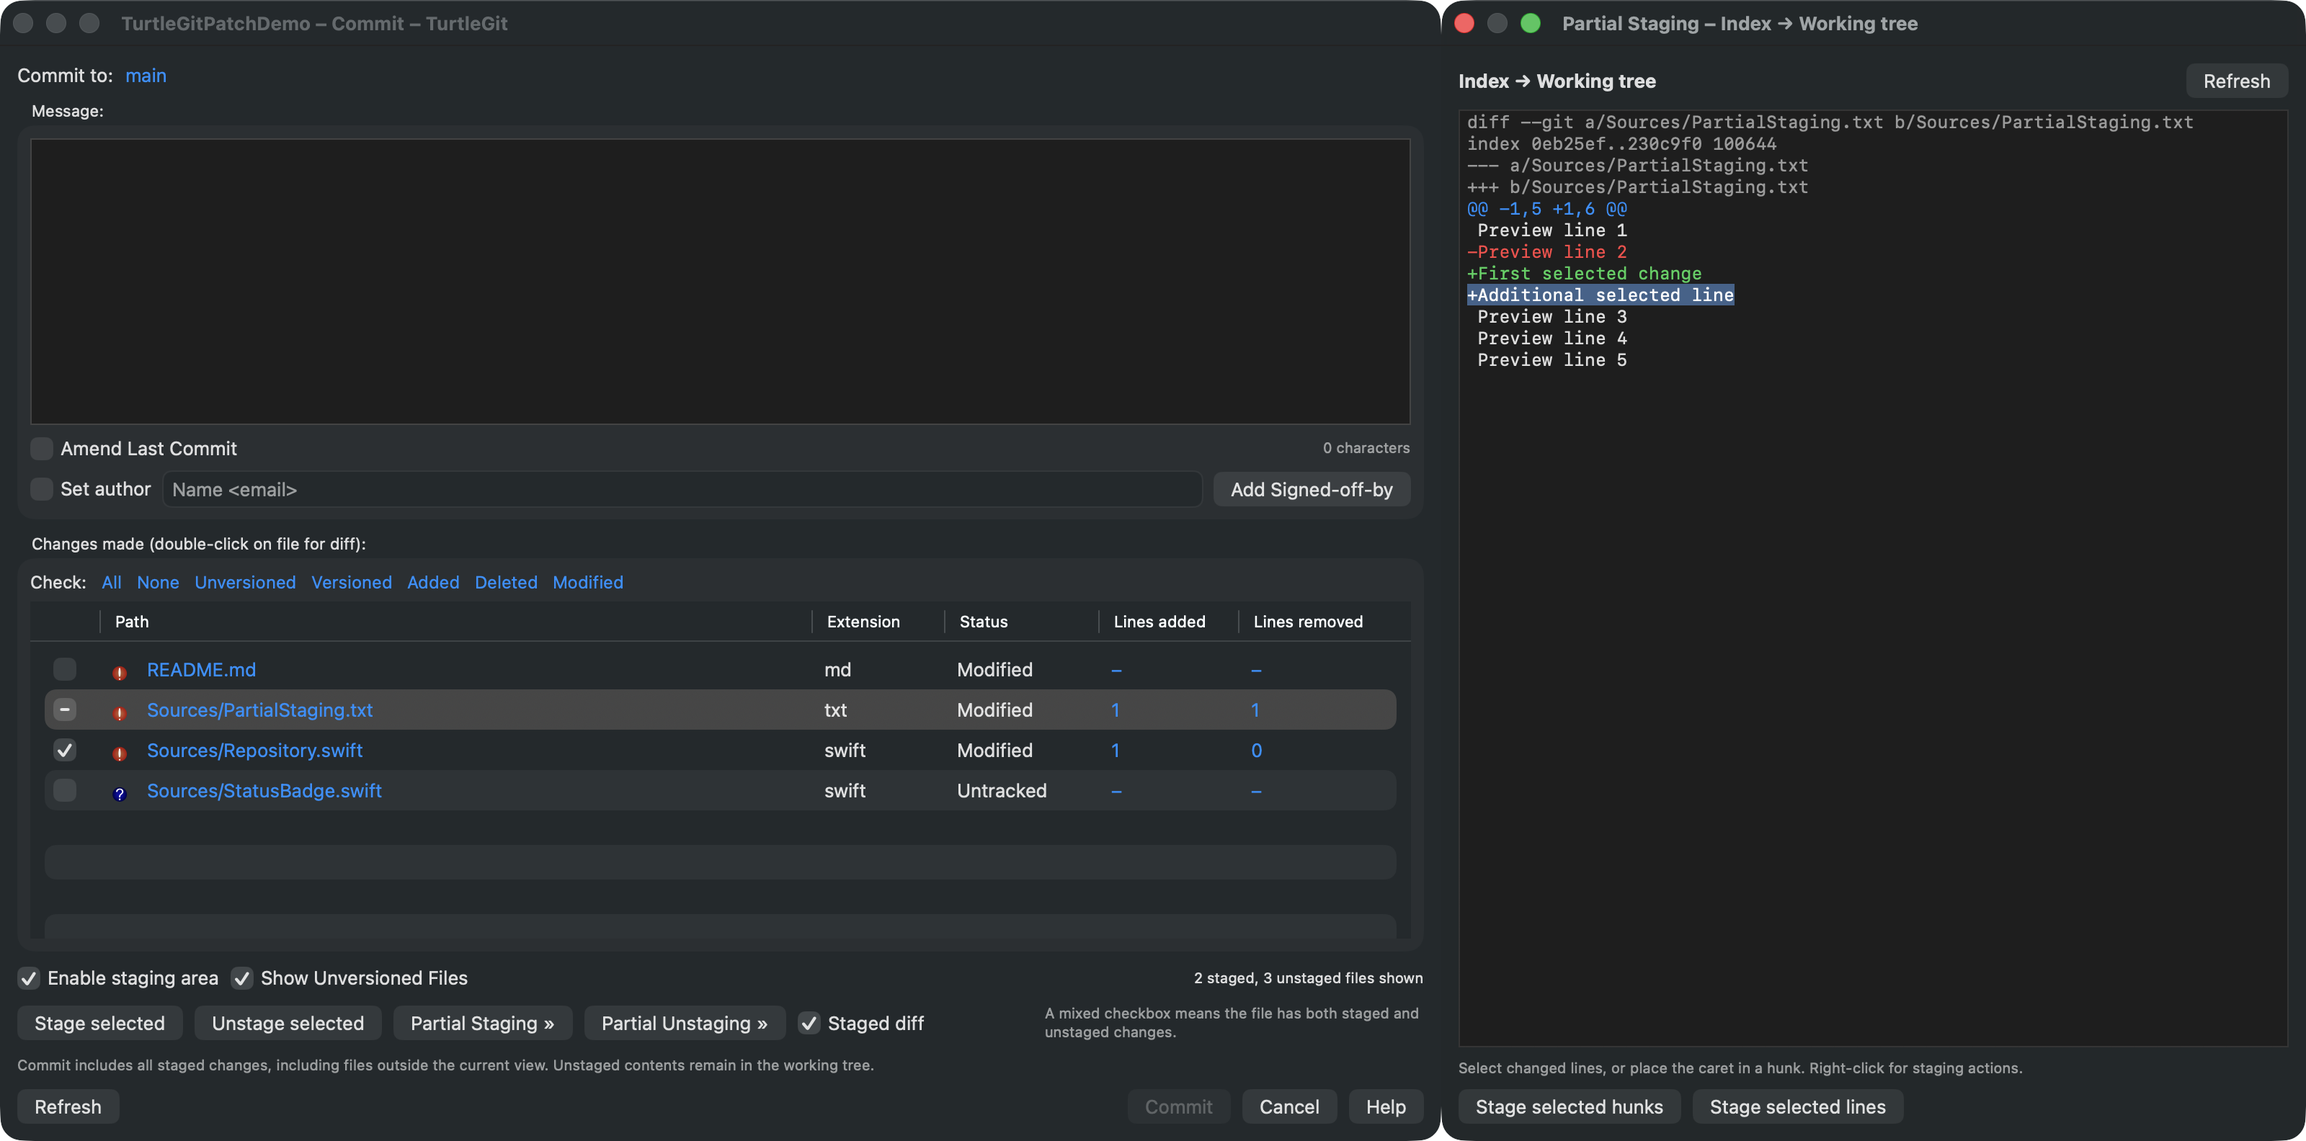
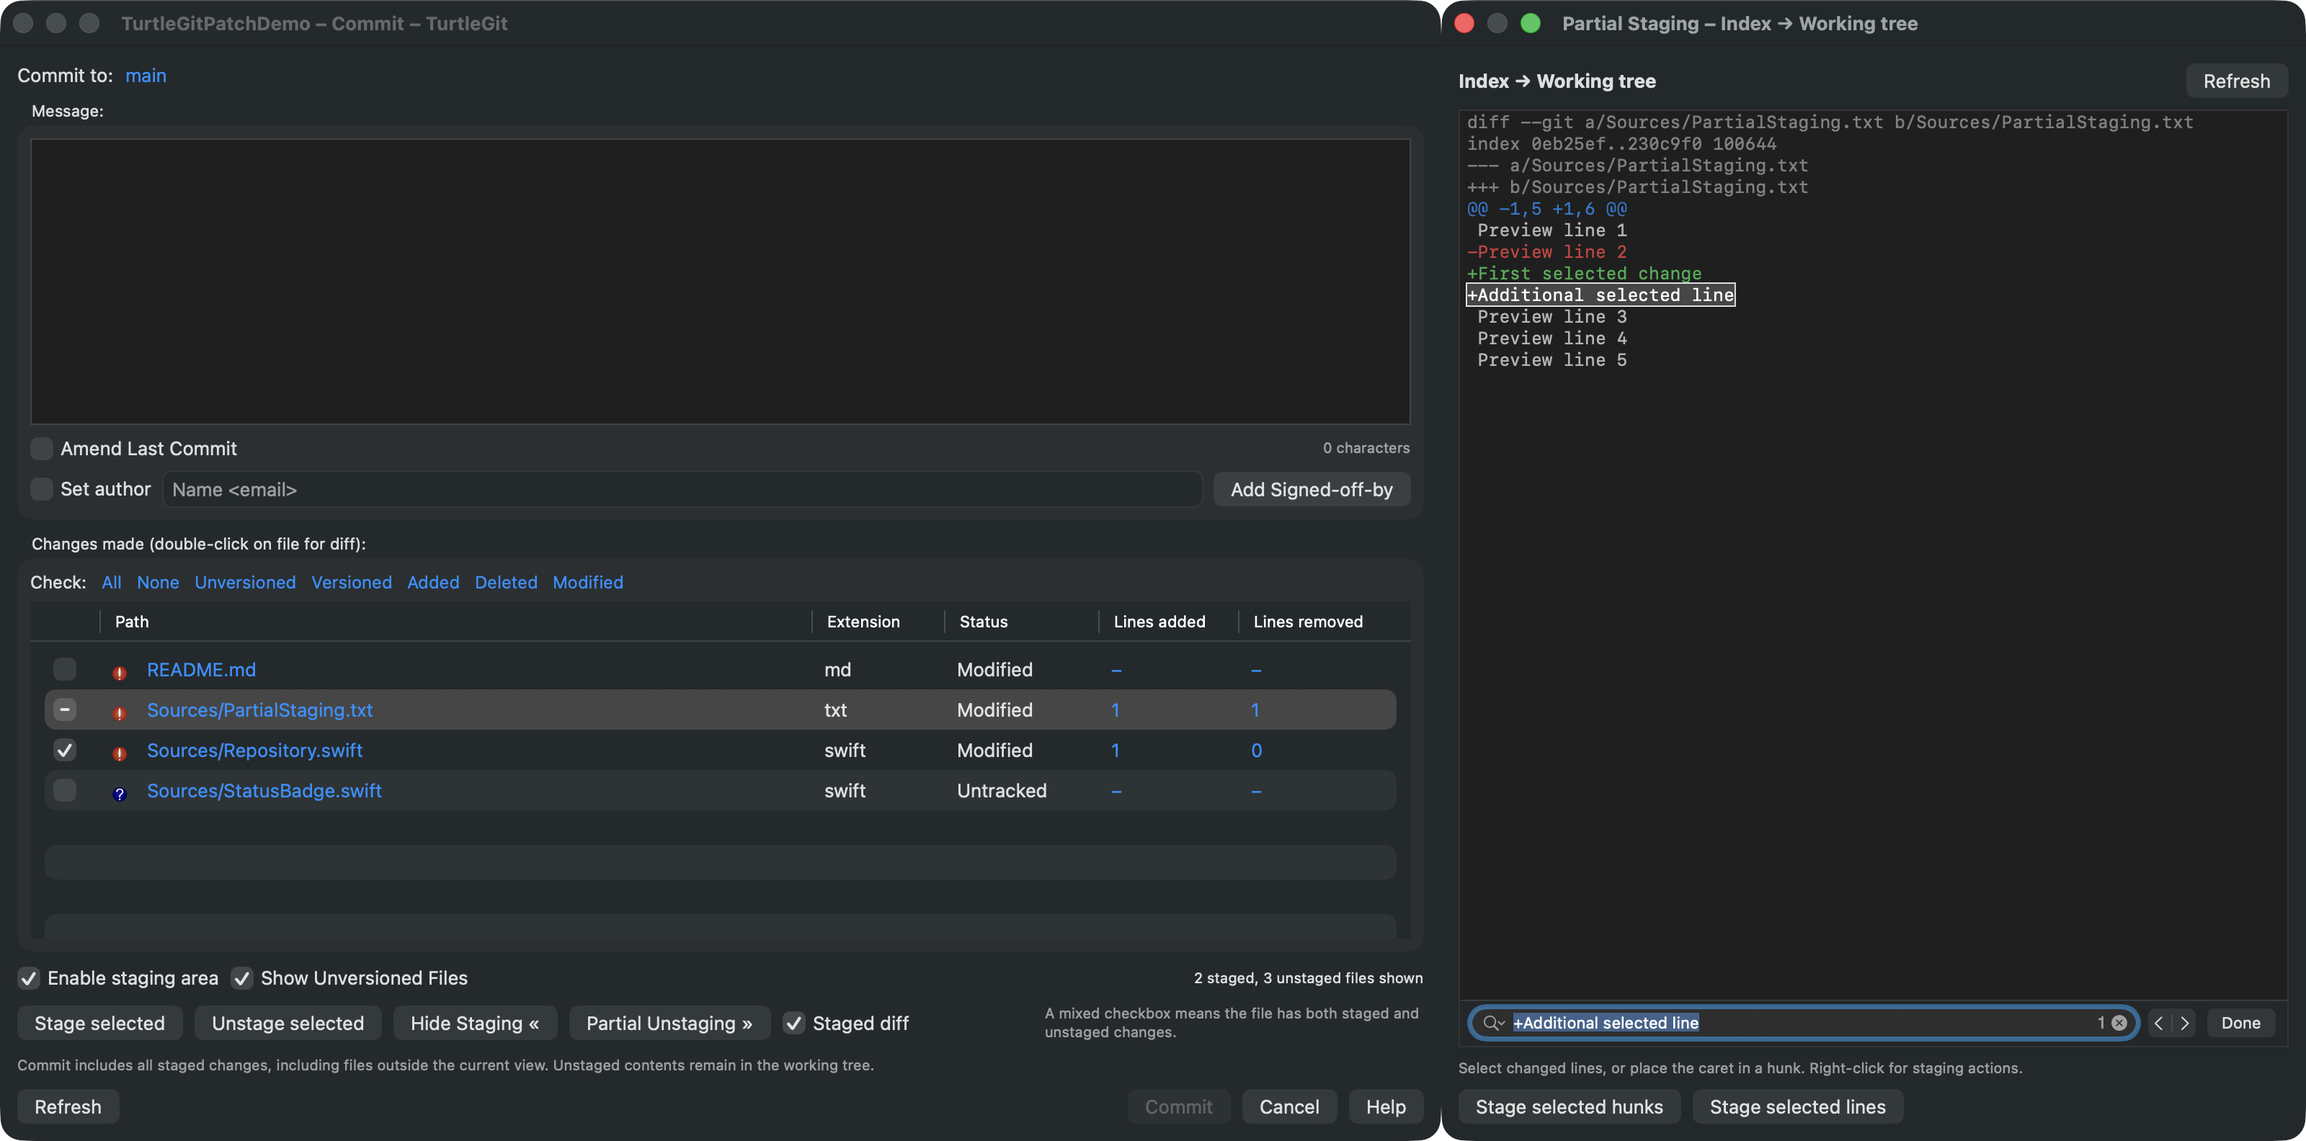
Port patch Find, Save As, window preferences and staging toggle labels

diff --git a/Sources/TurtleGitMac/PatchWindow.swift b/Sources/TurtleGitMac/PatchWindow.swift
@@ -1,20 +1,54 @@
 import AppKit
 import SwiftUI
 import TurtleGitCore
+import UniformTypeIdentifiers
+
+@MainActor private final class PatchNSWindow: NSWindow {
+    weak var patchText: NSTextView?
+    override func performKeyEquivalent(with event: NSEvent) -> Bool {
+        let modifiers = event.modifierFlags.intersection([.command, .shift, .control, .option])
+        if modifiers == .command, event.charactersIgnoringModifiers == "f" {
+            find(.showFindInterface); return true
+        }
+        if modifiers == .command || modifiers == [.command, .shift], event.charactersIgnoringModifiers?.lowercased() == "g" {
+            find(modifiers.contains(.shift) ? .previousMatch : .nextMatch); return true
+        }
+        return super.performKeyEquivalent(with: event)
+    }
+    func find(_ action: NSTextFinder.Action) {
+        guard let patchText else { return }
+        if action == .showFindInterface, patchText.selectedRange().length > 0 {
+            let selection = NSMenuItem(); selection.tag = NSTextFinder.Action.setSearchString.rawValue
+            patchText.performTextFinderAction(selection)
+        }
+        let sender = NSMenuItem(); sender.tag = action.rawValue
+        patchText.performTextFinderAction(sender)
+    }
+    override func cancelOperation(_ sender: Any?) {
+        if patchText?.enclosingScrollView?.isFindBarVisible == true {
+            find(.hideFindInterface); makeFirstResponder(patchText)
+        } else { close() }
+    }
+}
 
 @MainActor final class PatchWindowController: NSWindowController, NSWindowDelegate {
     let model: PatchWindowModel
     var onClosed: () -> Void = {}
     init(repository: GitRepository, access: RepositoryAccessLease?) {
         model = PatchWindowModel(repository: repository, access: access)
-        let window = NSWindow(contentRect: NSRect(x: 0, y: 0, width: 600, height: 760),
+        let savedWidth = UserDefaults.standard.double(forKey: "PartialPatchWindowWidth")
+        let width = savedWidth >= 460 && savedWidth <= 4000 ? savedWidth : 600
+        let window = PatchNSWindow(contentRect: NSRect(x: 0, y: 0, width: width, height: 760),
                               styleMask: [.titled, .closable, .resizable], backing: .buffered, defer: false)
         window.minSize = NSSize(width: 460, height: 500); window.isReleasedWhenClosed = false
         window.contentViewController = NSHostingController(rootView: PatchDialog(model: model))
         super.init(window: window); window.delegate = self
-        window.setContentSize(NSSize(width: 600, height: 760))
+        window.setContentSize(NSSize(width: width, height: 760))
     }
-    func windowWillClose(_ notification: Notification) { onClosed() }
+    func windowWillClose(_ notification: Notification) {
+        if let window { UserDefaults.standard.set(window.frame.width, forKey: "PartialPatchWindowWidth") }
+        onClosed()
+    }
     required init?(coder: NSCoder) { fatalError("init(coder:) is not supported") }
 }
 
@@ -93,11 +127,13 @@ struct PatchTextView: NSViewRepresentable {
         text.isEditable = false; text.isSelectable = true; text.delegate = context.coordinator
         text.coordinator = context.coordinator
         text.isRichText = false; text.font = .monospacedSystemFont(ofSize: 12, weight: .regular)
+        text.usesFindBar = true; text.isIncrementalSearchingEnabled = true
         text.isHorizontallyResizable = true; text.isVerticallyResizable = true
         text.autoresizingMask = [.width]
         text.textContainer?.widthTracksTextView = false
         text.textContainer?.containerSize = NSSize(width: CGFloat.greatestFiniteMagnitude, height: CGFloat.greatestFiniteMagnitude)
         let scroll = NSScrollView(); scroll.hasVerticalScroller = true; scroll.hasHorizontalScroller = true
+        scroll.findBarPosition = .belowContent
         scroll.autohidesScrollers = true; scroll.borderType = .bezelBorder; scroll.documentView = text
         return scroll
     }
@@ -133,6 +169,22 @@ struct PatchTextView: NSViewRepresentable {
     }
     final class PatchText: NSTextView {
         weak var coordinator: Coordinator?
+        override func viewDidMoveToWindow() {
+            super.viewDidMoveToWindow(); (window as? PatchNSWindow)?.patchText = self
+        }
+        override func cancelOperation(_ sender: Any?) { window?.cancelOperation(sender) }
+        @objc func savePatch(_ sender: Any?) {
+            guard let window, let model = coordinator?.model else { return }
+            let snapshot = model.document.text
+            let panel = NSSavePanel(); panel.nameFieldStringValue = "changes.patch"
+            panel.allowedContentTypes = [UTType(filenameExtension: "patch") ?? .plainText]
+            panel.beginSheetModal(for: window) { response in
+                guard response == .OK, let url = panel.url else { return }
+                do { try Data(snapshot.utf8).write(to: url, options: .atomic) }
+                catch { model.error = error.localizedDescription }
+            }
+        }
+        @objc func showFind(_ sender: Any?) { (window as? PatchNSWindow)?.find(.showFindInterface) }
         override func menu(for event: NSEvent) -> NSMenu? {
             guard let coordinator else { return super.menu(for: event) }
             if selectedRange().length == 0 {
@@ -140,6 +192,9 @@ struct PatchTextView: NSViewRepresentable {
                 setSelectedRange(NSRange(location: location, length: 0))
             }
             let menu = NSMenu()
+            let save = NSMenuItem(title: "Save As…", action: #selector(savePatch(_:)), keyEquivalent: "")
+            save.target = self; save.image = MenuIcon.unifiedDiff.image(); menu.addItem(save)
+            menu.addItem(.separator())
             for (title, selector, enabled) in [("selected hunks", #selector(Coordinator.hunks(_:)), coordinator.model.canApplyHunks), ("selected lines", #selector(Coordinator.lines(_:)), coordinator.model.canApplyLines)] {
                 let item = NSMenuItem(title: (coordinator.model.staged ? "Unstage " : "Stage ") + title, action: selector, keyEquivalent: "")
                 item.target = coordinator; item.image = (coordinator.model.staged ? MenuIcon.revert : .add).image(); item.isEnabled = enabled; menu.addItem(item)
@@ -148,6 +203,8 @@ struct PatchTextView: NSViewRepresentable {
             let copy = NSMenuItem(title: "Copy", action: #selector(NSText.copy(_:)), keyEquivalent: "")
             copy.target = self; copy.image = MenuIcon.copy.image(); menu.addItem(copy)
             menu.addItem(NSMenuItem(title: "Select All", action: #selector(NSText.selectAll(_:)), keyEquivalent: ""))
+            let find = NSMenuItem(title: "Find…", action: #selector(showFind(_:)), keyEquivalent: "")
+            find.target = self; menu.addItem(find)
             return menu
         }
     }

diff --git a/docs/site/index.html b/docs/site/index.html
@@ -29,7 +29,7 @@
     <p>The native Commit window keeps the message above a checked file list. Checkbox mode commits current whole-file contents and preserves unchecked staged changes. Enable staging area switches to three-state checkboxes and commits the index, preserving later working-tree edits. An attached patch window stages or unstages selected lines and hunks in ordinary tracked UTF-8 text files. Advanced controls and other file types remain in progress.</p>
     <figure><a href="assets/commit.png"><img src="assets/commit.png" alt="Native TurtleGit Commit window with a multiline message, amend and author controls, category check links, and only README.md checked while another file remains staged." width="2000" height="1584" loading="lazy"></a><figcaption>Actual checkbox-mode development window before the staging toggle was added. The sample commit was verified to preserve the unchecked staged file.</figcaption></figure>
     <figure><a href="assets/staging.png"><img src="assets/staging.png" alt="Native Commit window with Enable staging area selected, one mixed checkbox for a partly staged file, Stage and Unstage controls, and separate staged-diff selection." width="2000" height="1584" loading="lazy"></a><figcaption>Staging mode retains the file list and displays partial index contents with a mixed checkbox. Its native commit was verified to preserve later unstaged edits. Partial staging is now available in the attached window shown below.</figcaption></figure>
-    <figure><a href="assets/partial-staging.png"><img src="assets/partial-staging.png" alt="Native Commit dialog and attached right-hand partial staging patch window, with a changed line selected and line and hunk staging actions enabled." width="3200" height="1584" loading="lazy"></a><figcaption>Actual native right-hand patch window. Line and hunk staging and line unstaging were exercised against a disposable repository, preserving other index changes and working-tree edits.</figcaption></figure>
+    <figure><a href="assets/partial-staging.png"><img src="assets/partial-staging.png" alt="Native Commit dialog and attached right-hand partial staging patch window, with a changed line selected, native Find bar, Hide Staging button and line and hunk staging actions enabled." width="3200" height="1584" loading="lazy"></a><figcaption>Actual native right-hand patch window with Find. Line and hunk staging and line unstaging preserve other index changes and working-tree edits. Search and native Save As were also exercised on this disposable repository.</figcaption></figure>
     <h2>Review repository status</h2>
     <figure><a href="assets/status.png"><img src="assets/status.png" alt="TurtleGit status window showing modified, staged and untracked files in a disposable sample repository." width="1840" height="1404" loading="lazy"></a><figcaption>The status and commit workflows are an initial implementation; full dialog parity remains in progress.</figcaption></figure>
   </section>

diff --git a/Sources/TurtleGitMac/CommitWindow.swift b/Sources/TurtleGitMac/CommitWindow.swift
@@ -22,12 +22,14 @@ import TurtleGitCore
     func windowWillClose(_ notification: Notification) { partial?.close(); partial = nil; onClosed() }
     private func showPartial(staged: Bool) {
         guard let window else { return }
+        if partial != nil, model.partialMode == staged { partial?.close(); return }
         let controller = partial ?? PatchWindowController(repository: model.repository, access: model.access)
         partial = controller
-        controller.onClosed = { [weak self] in self?.partial = nil }
+        controller.onClosed = { [weak self] in self?.partial = nil; self?.model.partialMode = nil }
         controller.model.onApplying = { [weak model] busy in model?.busy = busy }
         controller.model.onApplied = { [weak model] in model?.reload() }
         controller.model.staged = staged
+        model.partialMode = staged
         controller.window?.title = staged ? "Partial Unstaging – HEAD → Index" : "Partial Staging – Index → Working tree"
         if let patchWindow = controller.window, patchWindow.parent == nil { window.addChildWindow(patchWindow, ordered: .above) }
         if let child = controller.window, let visible = window.screen?.visibleFrame,
@@ -60,6 +62,7 @@ import TurtleGitCore
     @Published var stagedStatistics: [String: CommitFile] = [:]
     @Published var unstagedStatistics: [String: CommitFile] = [:]
     @Published var stagingEnabled = false
+    @Published var partialMode: Bool?
     @Published var stagedDiff = true
     private var hasLoaded = false
     @Published var statistics: [String: CommitFile] = [:]
@@ -227,8 +230,8 @@ struct CommitDialog: View {
                 HStack {
                     Button("Stage selected") { model.moveToStage(model.selection, staged: true) }.disabled(model.selection.isEmpty)
                     Button("Unstage selected") { model.moveToStage(model.selection, staged: false) }.disabled(model.selection.isEmpty)
-                    Button("Partial Staging »") { model.showPartial(false) }
-                    Button("Partial Unstaging »") { model.showPartial(true) }
+                    Button(model.partialMode == false ? "Hide Staging «" : "Partial Staging »") { model.showPartial(false) }
+                    Button(model.partialMode == true ? "Hide Unstaging «" : "Partial Unstaging »") { model.showPartial(true) }
                     Toggle("Staged diff", isOn: $model.stagedDiff).toggleStyle(.checkbox)
                     Spacer(); Text("A mixed checkbox means the file has both staged and unstaged changes.").font(.caption).foregroundStyle(.secondary)
                 }

diff --git a/docs/COMMIT-PARITY.md b/docs/COMMIT-PARITY.md
@@ -26,6 +26,11 @@ bypasses checked-file index preparation. These are distinct commit modes.
   selection of individual lines or hunks, and original icons in its context menu.
   Applying a selection changes the index and preserves working-tree contents.
   A stale patch is rejected before applying; disabling staging closes the patch window.
+- Bottom Find bar with selection-seeded search, next/previous and native search
+  options; Command-F and Command-G / Shift-Command-G shortcuts. Escape hides Find
+  first, then closes the patch. Save As exports the displayed patch through the
+  native save panel. Patch width is saved; buttons switch to Hide Staging/Unstaging
+  while the corresponding patch window is open.
 - Staging mode commits the entire index, including changes outside the displayed
   scope. Later unstaged edits remain on disk; partial staging prepared by another
   tool is preserved.
@@ -58,20 +63,29 @@ window to the right of Commit. The native attached window now follows that layou
 and tracks the parent's movement and height. Native UI checks staged one added
 line, staged a separate hunk, and unstaged the first line while retaining the
 second hunk and an unrelated staged file. Working-tree edits remained unchanged.
-`site/assets/partial-staging.png` captures both actual native windows.
+`site/assets/partial-staging.png` captures both actual native windows and Find.
+The native Find bar was seeded from selected text, returned five matches for
+Preview, and was dismissed with Escape without closing the patch. Next/Previous
+shortcuts were exercised. A second Escape closed the patch and restored the button
+labels. Native Save As output matched the current Git diff byte-for-byte. The
+closed window wrote its width preference, which is read on reopening.
 
 Integration tests cover line and hunk staging/unstaging, adjusting offsets across
 multiple hunks, unusual filenames, and rejection of stale diffs. Partial operations
-currently support ordinary tracked UTF-8 text files. Unsupported new, deleted,
-renamed, binary, mode-changing and non-UTF-8 files require whole-file staging.
+currently support ordinary modified UTF-8 text files. The pinned upstream
+`StagingOperations::FindHunkEndGivenHunkStartAndCounts` explicitly limits partial
+staging to modified files and excludes added/deleted files. Those files use
+whole-file staging in this port too. Renamed, binary, mode-changing and non-UTF-8
+files also currently require whole-file staging; their behavior still needs audit.
 Enabling staging support itself retains the same file list and switches its
 checkbox semantics. Staged files remain visible outside Finder-requested scope.
 
 ## Remaining upstream behavior
 
-- Partial changes for new/deleted/renamed/binary/mode-changing files and other
-  encodings; broader mixed-stage QA, patch search, keyboard shortcuts and saved
-  patch width, upstream show/hide button labels, and multi-display placement.
+- Audit partial changes for renamed/binary/mode-changing files and other encodings;
+  broader mixed-stage QA and multi-display placement. Native Find follows macOS
+  search conventions (including wraparound); upstream flashes at a search boundary.
+  Added/deleted file partial changes would extend the pinned upstream behavior.
 - Author date and committer date controls, new branch, amend diff to previous
   commit, explicit message-only checkbox, commit/push/recommit split button.
 - Message history, templates, completion, spelling, issue IDs and tracker plugins.

diff --git a/docs/UI-PARITY.md b/docs/UI-PARITY.md
@@ -15,7 +15,7 @@ keyboard behavior, resizing and Git effects have been verified. The file audit i
 | Native window | Upstream reference | Evidence and remaining differences |
 | --- | --- | --- |
 | Log Messages | LogDlg, GitLogListBase, Show Log manual and LogMessages.png | Three panes, compact graph before list, refs, message, file statistics and basic revision menus verified. Actions column, working-tree row, reference chooser, statistics/walk/view controls and remaining menus pending. See LOG-PARITY.md. |
-| Commit | CommitDlg, IDD_COMMITDLG, Commit.png, PatchViewDlg | Message above checked file list; independent checkbox/highlight selection; optional three-state staging; native commits exercised in both modes. Attached right-hand patch window with native line/hunk staging and unstaging verified. Unsupported file types, patch search, remaining options and menus pending. See COMMIT-PARITY.md. |
+| Commit | CommitDlg, IDD_COMMITDLG, Commit.png, PatchViewDlg | Message above checked file list; independent checkbox/highlight selection; optional three-state staging; native commits exercised in both modes. Attached right-hand patch window with native line/hunk staging and unstaging verified. Native Find, Save As, Escape, saved width and show/hide labels ported. Unsupported file types, remaining options and menus pending. See COMMIT-PARITY.md. |
 | Repository status | RepoStatusDlg and GitStatusListCtrl | Current main-window sidebar/output layout differs from upstream standalone status dialog. It needs its native dialog, full columns/groups, context menus and upstream controls. |
 | Operation confirmation | Per-command dialog sources/resources | Current generic one-field dialog differs from upstream Fetch, Pull, Push, Branch/Tag, Switch, Merge, Rebase, Stash and Clone dialogs. Each needs its own native replacement and workflow/options audit. |
 | Diff | TortoiseMerge and TortoiseUDiff | Monospaced unified patches are available. Side-by-side editor, navigation, syntax/line rendering, binary handling and full editor behavior remain pending. Partial staging is available in the Commit patch window. |
